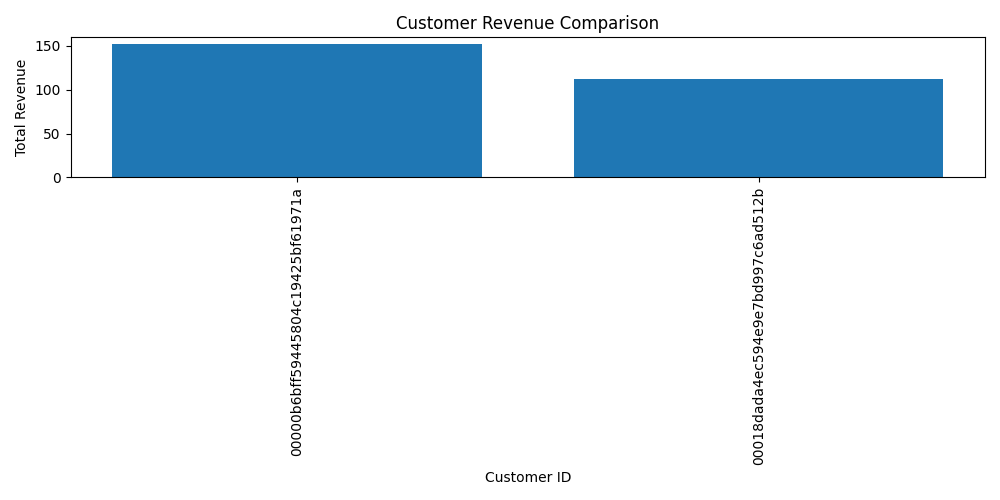
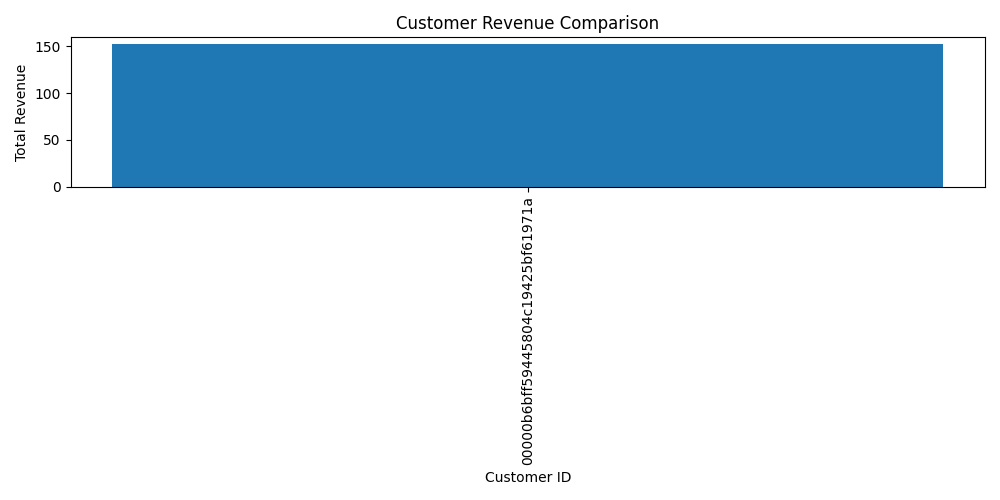
Added email integration and dashboard statistics

diff --git a/templates/dashboard.html b/templates/dashboard.html
@@ -261,14 +261,74 @@
 
     <div class="section">
 
-        <h2>📊 Revenue Risk Analysis</h2>
+    <h2>📊 Revenue Risk Analysis</h2>
 
-        <p>
-        High Risk customers are identified using revenue-drop analysis
-        on the large-scale telecom dataset processed through chunking.
-        </p>
+    <div class="cards">
+
+        <div class="card">
+            <h3>Total Customers</h3>
+            <div class="number">
+                {{ total_customers }}
+            </div>
+        </div>
+
+        <div class="card">
+            <h3>High Risk</h3>
+            <div class="number">
+                {{ high_risk }}
+            </div>
+        </div>
+
+        <div class="card">
+            <h3>Enterprise</h3>
+            <div class="number">
+                {{ enterprise }}
+            </div>
+        </div>
+
     </div>
 
+    <p style="margin-top:20px;font-size:18px;">
+        Revenue risk is calculated using chunk-processed telecom revenue data.
+        High-risk customers are targeted with personalized retention offers
+        and automated email campaigns.
+    </p>
+
+   </div>
+ <div class="section">
+
+    <h2>📁 Dataset Statistics</h2>
+
+    <table>
+
+        <tr>
+            <th>Dataset</th>
+            <th>Records</th>
+        </tr>
+
+        <tr>
+            <td>CRM Dataset</td>
+            <td>13,627,493</td>
+        </tr>
+
+        <tr>
+            <td>Device Dataset</td>
+            <td>2,440,100</td>
+        </tr>
+
+        <tr>
+            <td>Revenue Dataset</td>
+            <td>1,704,601</td>
+        </tr>
+
+        <tr>
+            <td>Final Customers</td>
+            <td>143,731</td>
+        </tr>
+
+    </table>
+
+</div>
 </div>
 
 </body>

diff --git a/templates/send_email.html b/templates/send_email.html
@@ -1,0 +1,93 @@
+<!DOCTYPE html>
+<html>
+
+<head>
+
+<title>Send Email</title>
+
+<style>
+
+body{
+    background:#0f172a;
+    color:white;
+    font-family:Arial;
+    padding:30px;
+}
+
+.container{
+    max-width:800px;
+    margin:auto;
+}
+
+input, textarea{
+    width:100%;
+    padding:12px;
+    margin-top:10px;
+    margin-bottom:20px;
+    border-radius:8px;
+}
+
+button{
+    background:#0284c7;
+    color:white;
+    border:none;
+    padding:12px 20px;
+    border-radius:8px;
+    cursor:pointer;
+}
+
+h1{
+    color:#38bdf8;
+}
+
+.success{
+    color:lightgreen;
+    font-weight:bold;
+}
+
+</style>
+
+</head>
+
+<body>
+
+<div class="container">
+
+<h1>📧 Send Customer Email</h1>
+
+<a href="/">
+<button>← Dashboard</button>
+</a>
+
+<br><br>
+
+<form method="POST">
+
+<label>Recipient Email</label>
+
+<input
+type="email"
+name="receiver"
+required>
+
+<label>Email Content</label>
+
+<textarea
+name="email_body"
+rows="12"
+required></textarea>
+
+<button type="submit">
+Send Email
+</button>
+
+</form>
+
+<p class="success">
+{{ message }}
+</p>
+
+</div>
+
+</body>
+</html>

diff --git a/templates/customer.html b/templates/customer.html
@@ -185,15 +185,40 @@
 
     {% endif %}
 
-    {% if email_preview %}
+   {% if email_preview %}
 
-    <h2 style="margin-top:30px;">
-        📧 Email Preview
+<h2 style="margin-top:30px;">
+    📧 Email Preview
+</h2>
+
+<textarea rows="12" readonly>{{ email_preview }}</textarea>
+
+<form method="POST" action="/send_customer_email">
+
+    <h2 style="margin-top:20px;">
+        Send Email
     </h2>
 
-    <textarea rows="12" readonly>{{ email_preview }}</textarea>
+    <input
+        type="email"
+        name="receiver_email"
+        placeholder="Enter recipient Gmail address"
+        required>
 
-    {% endif %}
+    <input
+        type="hidden"
+        name="email_body"
+        value="{{ email_preview }}">
+
+    <br><br>
+
+    <button type="submit">
+        📧 Send Email
+    </button>
+
+</form>
+
+{% endif %}
 
 </div>
 

diff --git a/app.py b/app.py
@@ -1,9 +1,14 @@
+import smtplib
+from email.message import EmailMessage
 from flask import Flask, render_template, request
 import pandas as pd
 import matplotlib.pyplot as plt
 
 app = Flask(__name__)
+# Gmail Configuration
 
+SENDER_EMAIL = "smileyhanaf@gmail.com"
+APP_PASSWORD = "ctox mqqq unfv rslh"
 # ==========================
 # DASHBOARD PAGE
 # ==========================
@@ -40,6 +45,37 @@ def dashboard():
         offers_sent=offers_sent,
         top_risk=top_risk.to_dict("records")
     )
+def send_email(receiver_email, subject, body):
+
+    try:
+
+        msg = EmailMessage()
+
+        msg["Subject"] = subject
+        msg["From"] = SENDER_EMAIL
+        msg["To"] = receiver_email
+
+        msg.set_content(body)
+
+        with smtplib.SMTP_SSL(
+            "smtp.gmail.com",
+            465
+        ) as smtp:
+
+            smtp.login(
+                SENDER_EMAIL,
+                APP_PASSWORD
+            )
+
+            smtp.send_message(msg)
+
+        return True
+
+    except Exception as e:
+
+        print(e)
+
+        return False
 
 
 # ==========================
@@ -140,7 +176,60 @@ def customer():
         customers=customers,
         email_preview=email_preview
     )
+# ==========================
+# SEND EMAIL PAGE
+# ==========================
+@app.route("/send_email", methods=["GET", "POST"])
+def email_page():
 
+    message = ""
+
+    if request.method == "POST":
+
+        receiver = request.form["receiver"]
+
+        subject = "Telecom Customer Retention Offer"
+
+        body = request.form["email_body"]
+
+        success = send_email(
+            receiver,
+            subject,
+            body
+        )
+
+        if success:
+            message = "✅ Email Sent Successfully"
+        else:
+            message = "❌ Email Sending Failed"
+
+    return render_template(
+        "send_email.html",
+        message=message
+    )
+@app.route("/send_customer_email", methods=["POST"])
+def send_customer_email():
+
+    receiver = request.form["receiver_email"]
+
+    email_body = request.form["email_body"]
+
+    success = send_email(
+        receiver,
+        "Telecom Customer Retention Offer",
+        email_body
+    )
+
+    if success:
+        return """
+        <h2>Email Sent Successfully ✅</h2>
+        <a href='/customer'>Go Back</a>
+        """
+
+    return """
+    <h2>Email Sending Failed ❌</h2>
+    <a href='/customer'>Go Back</a>
+    """
 # ==========================
 # ENTERPRISE PAGE
 # ==========================
